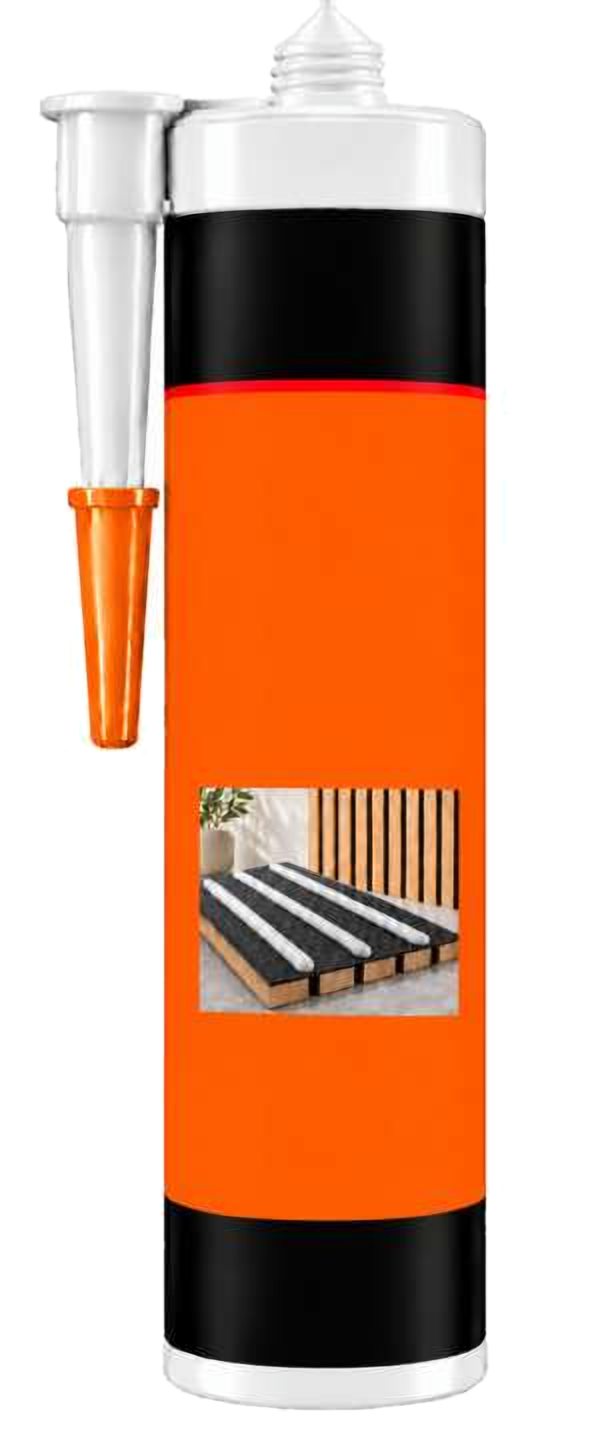
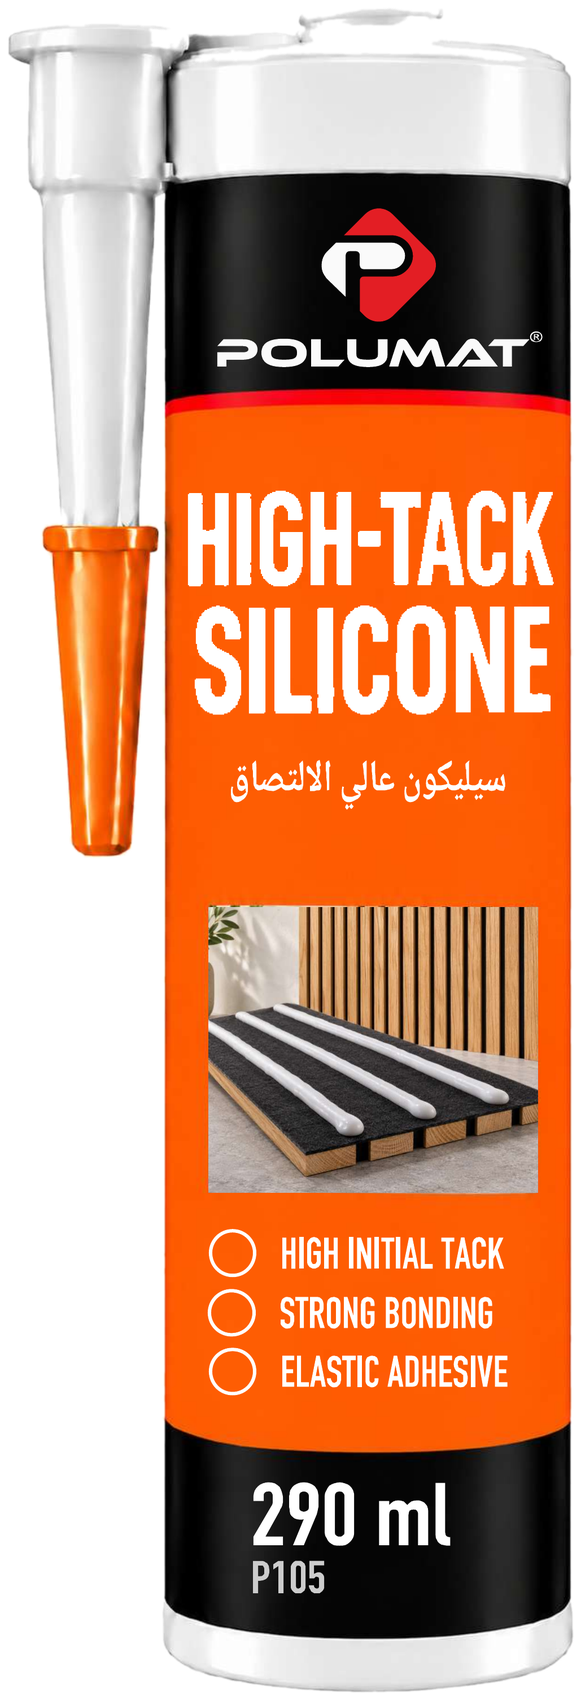
feat: use high-res catalog renders (labels included) for silicone images
Claude-Session: https://claude.ai/code/session_015sDrh74hRbcJfnicw4Gj19

diff --git a/migration/scripts/replace-silicone-images.ts b/migration/scripts/replace-silicone-images.ts
@@ -1,6 +1,6 @@
 /**
  * Replaces `cardImage` and `packshot` of the products in the new "Silikon Grubu"
- * catalog page (PK1.pdf) with the new product renders.
+ * catalog page (the Silikon Grubu catalog pages (pk12.pdf, rendered at 600 dpi)) with the new product renders.
  *
  * Assets live in migration/assets/silicone:
  *   <key>-packshot.png  transparent product render  → product.packshot
